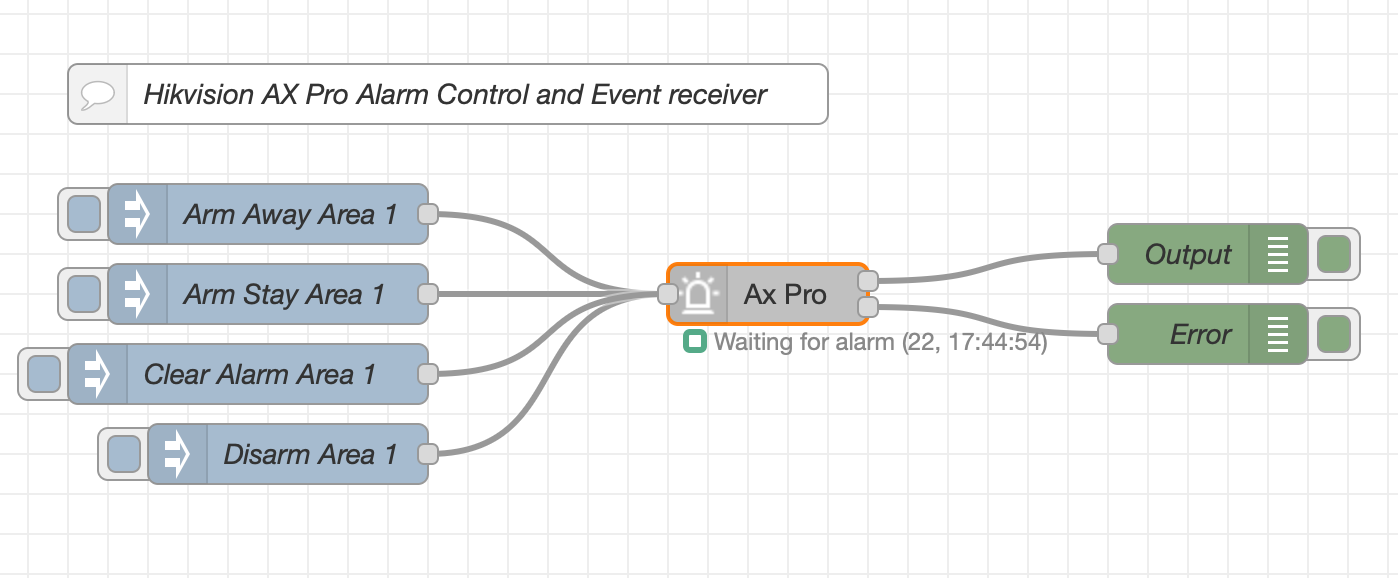
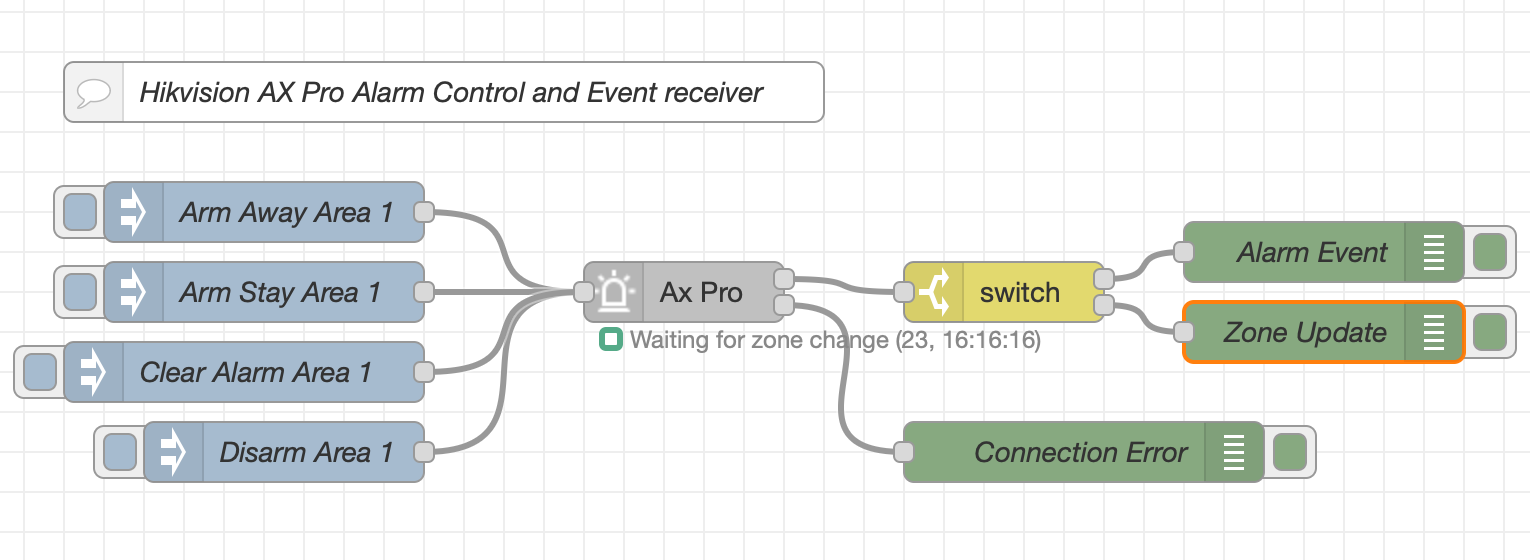
.

diff --git a/nodes/AXPro-config.js b/nodes/AXPro-config.js
@@ -20,6 +20,7 @@ module.exports = (RED) => {
         node.nodeClients = []; // Stores the registered clients
         node.isConnected = true; // Assumes, that is already connected.
         node.timerCheckHeartBeat = null;
+        node.timerReadZonesStatus = null;
         node.errorDescription = ""; // Contains the error description in case of connection error.
         node.authentication = config.authentication || "sha256-salted";
         node.deviceinfo = config.deviceinfo || {};
@@ -40,7 +41,6 @@ module.exports = (RED) => {
         const customHttpsAgent = new https.Agent({
             rejectUnauthorized: false
         });
-
 
 
         // This function starts the heartbeat timer, to detect the disconnection from the server
@@ -95,31 +95,29 @@ module.exports = (RED) => {
             return result
         }
 
+        controller = new AbortController(); // For aborting the stream request
+        node.optionsAlarmStream = {
+            // These properties are part of the Fetch Standard
+            method: 'GET',
+            headers: {},        // request headers. format is the identical to that accepted by the Headers constructor (see below)
+            body: null,         // request body. can be null, a string, a Buffer, a Blob, or a Node.js Readable stream
+            redirect: 'follow', // set to `manual` to extract redirect headers, `error` to reject redirect
+            signal: controller.signal,       // pass an instance of AbortSignal to optionally abort requests
+
+            // The following properties are node-fetch extensions
+            follow: 20,         // maximum redirect count. 0 to not follow redirect
+            timeout: 0,         // req/res timeout in ms, it resets on redirect. 0 to disable (OS limit applies). Signal is recommended instead.
+            compress: false,     // support gzip/deflate content encoding. false to disable
+            size: 0,            // maximum response body size in bytes. 0 to disable
+            agent: node.protocol === "https" ? customHttpsAgent : null
+        };
 
         //#region ALARMSTREAM
         async function startAlarmStream() {
 
             node.resetHeartBeatTimer(); // First thing, start the heartbeat timer.
             node.setAllClientsStatus({ fill: "grey", shape: "ring", text: "Connecting..." });
-
             if (node.authentication === "sha256-salted") node.clientAlarmStream = new DigestFetch("", "", { basic: true }); // Instantiate the fetch client.
-            controller = new AbortController(); // For aborting the stream request
-            node.optionsAlarmStream = {
-                // These properties are part of the Fetch Standard
-                method: 'GET',
-                headers: {},        // request headers. format is the identical to that accepted by the Headers constructor (see below)
-                body: null,         // request body. can be null, a string, a Buffer, a Blob, or a Node.js Readable stream
-                redirect: 'follow', // set to `manual` to extract redirect headers, `error` to reject redirect
-                signal: controller.signal,       // pass an instance of AbortSignal to optionally abort requests
-
-                // The following properties are node-fetch extensions
-                follow: 20,         // maximum redirect count. 0 to not follow redirect
-                timeout: 0,         // req/res timeout in ms, it resets on redirect. 0 to disable (OS limit applies). Signal is recommended instead.
-                compress: false,     // support gzip/deflate content encoding. false to disable
-                size: 0,            // maximum response body size in bytes. 0 to disable
-                agent: node.protocol === "https" ? customHttpsAgent : null
-
-            };
 
             // 22/12/2022 Start auth process
             // ##################################
@@ -153,12 +151,11 @@ module.exports = (RED) => {
                                 resolve(json);
                         });
                     });
-                } catch (error) {
-
-                }
+                } catch (error) { }
             }
 
             try {
+                node.optionsAlarmStream.method = 'GET'
                 const responseAuth = await node.clientAlarmStream.fetch(node.protocol + "://" + node.host + "/ISAPI/Security/sessionLogin/capabilities?username=" + node.credentials.user, node.optionsAlarmStream)
                 if (responseAuth.status >= 200 && responseAuth.status <= 300) {
                     node.setAllClientsStatus({ fill: "green", shape: "ring", text: "Communication established" });
@@ -173,12 +170,8 @@ module.exports = (RED) => {
                 const result = await xml2jsSync(XMLBody)
                 const jSon = JSON.parse(JSON.stringify(result))
                 if (node.debug) RED.log.error("BANANA SBANANATO XMLBoduAuth -> JSON " + JSON.stringify(result));
-                if (result !== null && result !== undefined && result.hasOwnProperty("EventNotificationAlert")) {
-                    node.nodeClients.forEach(oClient => {
-                        if (result !== undefined) oClient.sendPayload({ topic: oClient.topic || "", payload: result.EventNotificationAlert });
-                    });
-                }
-                // jSon now contains the body in JSON Format. The simple thing is done. 
+
+                // jSon now contains the body in JSON Format. The simple thing is done.
                 // Now i need to authenticate
                 let bodyAuth = {
                     sessionId: jSon.SessionLoginCap.sessionID,
@@ -391,11 +384,59 @@ module.exports = (RED) => {
                 node.errorDescription = "Fetch error " + (error.message || " unknown error");
                 if (node.debug) RED.log.error("AXPro-config: FETCH ERROR: " + (error.message || " unknown error"));
             };
-
+            // Starts zone polling
+            clearTimeout(node.timerReadZonesStatus)
+            node.timerReadZonesStatus = setTimeout(startZonesStatusReading, 2000)
         };
-        setTimeout(startAlarmStream, 10000); // First connection.
+        // Start login and alamrstream
+        setTimeout(startAlarmStream, 5000)
+        
         //#endregion
 
+        // Read zones status and outputs only changed ones
+        // Wrapping the async xml2js to a sync function, for peace of mind
+        async function startZonesStatusReading() {
+            try {
+
+                let optionsZonesStatusReading = {
+                    // These properties are part of the Fetch Standard
+                    method: 'GET',
+                    headers: { Cookie: node.authCookie },        // request headers. format is the identical to that accepted by the Headers constructor (see below)
+                    body: null,         // request body. can be null, a string, a Buffer, a Blob, or a Node.js Readable stream
+                    redirect: 'follow', // set to `manual` to extract redirect headers, `error` to reject redirect
+                    //signal: controller.signal,       // pass an instance of AbortSignal to optionally abort requests
+
+                    // The following properties are node-fetch extensions
+                    follow: 20,         // maximum redirect count. 0 to not follow redirect
+                    timeout: 0,         // req/res timeout in ms, it resets on redirect. 0 to disable (OS limit applies). Signal is recommended instead.
+                    compress: false,     // support gzip/deflate content encoding. false to disable
+                    size: 0,            // maximum response body size in bytes. 0 to disable
+                    agent: node.protocol === "https" ? customHttpsAgent : null
+                };
+                try {
+                    delete (optionsZonesStatusReading.body)
+                    const responseZonesStatus = await node.clientAlarmStream.fetch(node.protocol + "://" + node.host + "/ISAPI/SecurityCP/status/zones?format=json", optionsZonesStatusReading)
+                    if (responseZonesStatus.status >= 200 && responseZonesStatus.status <= 300) {
+                        // Output only the changed zone
+                        // Get the XML Body of the salt and challenge
+                        const result = await responseZonesStatus.text()
+                        const jSon = JSON.parse(result)
+                        if (node.debug) RED.log.error("BANANA SBANANATO XMLBoduAuth -> JSON " + JSON.stringify(result));
+                        node.nodeClients.forEach(oClient => {
+                            oClient.sendPayload({ topic: oClient.topic || "", payload: { ZoneList: jSon.ZoneList } });
+                        })
+                    } else {
+                        node.setAllClientsStatus({ fill: "red", shape: "ring", text: responseZonesStatus.statusText || " unknown response code" });
+                        //  if (node.debug)  RED.log.error("BANANA Error response " + response.statusText);
+                        node.errorDescription = "StatusResponse problem " + (responseZonesStatus.statusText || " unknown status response code");
+                    }
+
+                } catch (error) {
+                    node.setAllClientsStatus({ fill: "red", shape: "ring", text: "Unable to fetch zone state " + error.message });
+                }
+                node.timerReadZonesStatus = setTimeout(startZonesStatusReading, 2000)
+            } catch (error) { }
+        }
 
 
         //#region "FUNCTIONS"
@@ -425,12 +466,6 @@ module.exports = (RED) => {
             try {
                 node.nodeClients = node.nodeClients.filter(x => x.id !== _Node.id)
             } catch (error) { }
-            //if (node.debug) RED.log.info("AFTER Node " + _Node.id + " has been unsubscribed from receiving KNX messages. " + node.nodeClients.length);
-
-            // If no clien nodes, disconnect from bus.
-            if (node.nodeClients.length === 0) {
-
-            }
         };
         //#endregion
 
@@ -488,7 +523,12 @@ module.exports = (RED) => {
             }
         }
 
+
+
     }
+
+
+
 
 
     RED.nodes.registerType("AXPro-config", Hikvisionconfig, {
@@ -497,4 +537,10 @@ module.exports = (RED) => {
             password: { type: "password" }
         }
     });
+
+
 }
+
+
+
+

diff --git a/nodes/hikvisionUltimateAxPro.js b/nodes/hikvisionUltimateAxPro.js
@@ -1,4 +1,4 @@
-
+const _ = require('lodash')
 
 module.exports = function (RED) {
 	function hikvisionUltimateAxPro(config) {
@@ -6,6 +6,7 @@ module.exports = function (RED) {
 		var node = this;
 		node.topic = config.topic || config.name;
 		node.server = RED.nodes.getNode(config.server)
+		node.zonesStatus = [] // Contains the status of all zones
 
 		node.setNodeStatus = ({ fill, shape, text }) => {
 			var dDate = new Date();
@@ -17,18 +18,32 @@ module.exports = function (RED) {
 			if (_msg === null || _msg === undefined) return;
 			_msg.topic = node.topic;
 			if (_msg.hasOwnProperty("errorDescription")) { node.send([null, _msg]); return; }; // It's a connection error/restore comunication.
-			if (!_msg.hasOwnProperty("payload") || (_msg.hasOwnProperty("payload") && _msg.payload === undefined)) return;
 			if (_msg.payload.hasOwnProperty('CIDEvent')) {
-				// Move the CID Event out of the payload
-				_msg.CIDEvent = _msg.payload.CIDEvent
-				// Delete the Payload
-				delete (_msg.payload)
+				// ALARM EVENT
+				node.send([{ payload: { CIDEvent: RED.util.cloneMessage(_msg.payload.CIDEvent) } }, null]); // Clone message to avoid adding _msgid
+			} else if (_msg.payload.hasOwnProperty('ZoneList')) {
+				// CHECK ONLY THE CHANGED ZONE STATUS
+				for (let index = 0; index < _msg.payload.ZoneList.length; index++) {
+					try {
+						const receivedZone = _msg.payload.ZoneList[index].Zone;
+						let foundInZoneStatus = node.zonesStatus.find((element) => element.id === receivedZone.id)
+						if (!_.isEqual(foundInZoneStatus, receivedZone)) {
+							if (foundInZoneStatus === undefined) {
+								node.zonesStatus.push(receivedZone) // Add updated
+							} else {
+								node.zonesStatus[node.zonesStatus.findIndex((element) => element.id === receivedZone.id)] = receivedZone
+								//node.zonesStatus.splice(foundInZoneStatus)
+								//node.zonesStatus.push(receivedZone) // Add updated
+							}
+							node.setNodeStatus({ fill: "green", shape: "dot", text: "Zone changed " + receivedZone.name });
+							node.send([{ payload: { zoneUpdate: RED.util.cloneMessage(receivedZone) } }, null]); // Clone message to avoid adding _msgid
+						}
+					} catch (error) { }
+				}
 			} else {
-				node.setNodeStatus({ fill: "green", shape: "ring", text: "Waiting for alarm" });
-				return // Discard Heartbeat
+				node.setNodeStatus({ fill: "green", shape: "ring", text: "Waiting for zone change" });
 			}
-			node.setNodeStatus({ fill: "green", shape: "dot", text: "Alert received" });
-			node.send([_msg, null]);
+
 		}
 
 		// On each deploy, unsubscribe+resubscribe
@@ -55,7 +70,7 @@ module.exports = function (RED) {
 			if (msg.hasOwnProperty("clearAlarmArea")) {
 				node.server.clearAlarmArea(msg.clearAlarmArea)
 			}
-			
+
 
 		});
 

diff --git a/README.md b/README.md
@@ -652,9 +652,13 @@ msg = {
 ---
 
 ## AX PRO Alarm node (Ax Pro and AX Pro Hybrid)
-This node receives all events sent by your AX Pro alarm.<br/>
-You can also arm, disarm, silence alarm etc...<br/>
 
+<img src='https://raw.githubusercontent.com/Supergiovane/node-red-contrib-hikvision-ultimate/master/img/axproPicture.jpg' width="80%">
+
+
+This node receives all events sent by your AX Pro alarm.<br/>
+You will receive not only Alarms etc, but also zone status, even if the AX Pro is disarmed.<br/>
+You can also arm, disarm, silence alarm etc...<br/>
 
 <img src='https://raw.githubusercontent.com/Supergiovane/node-red-contrib-hikvision-ultimate/master/img/axpro.png' width="80%">
 
@@ -666,7 +670,7 @@ You can also arm, disarm, silence alarm etc...<br/>
 
 ```javascript
 
-[{"id":"7c370c1cabe6fd89","type":"hikvisionUltimateAxPro","z":"e9a7cd97842ffa10","name":"Ax Pro","topic":"","server":"2dfc48091d46ead3","x":390,"y":200,"wires":[["893818dce1fc2c20"],["01e634bd9098e528"]]},{"id":"893818dce1fc2c20","type":"debug","z":"e9a7cd97842ffa10","name":"Output","active":true,"tosidebar":true,"console":false,"tostatus":false,"complete":"true","targetType":"full","statusVal":"","statusType":"auto","x":610,"y":180,"wires":[]},{"id":"01e634bd9098e528","type":"debug","z":"e9a7cd97842ffa10","name":"Error","active":true,"tosidebar":true,"console":false,"tostatus":false,"complete":"true","targetType":"full","statusVal":"","statusType":"auto","x":610,"y":220,"wires":[]},{"id":"ddc2d752e0c13937","type":"inject","z":"e9a7cd97842ffa10","name":"Disarm Area 1","props":[{"p":"disarmArea","v":"1","vt":"num"}],"repeat":"","crontab":"","once":false,"onceDelay":0.1,"topic":"","x":150,"y":280,"wires":[["7c370c1cabe6fd89"]]},{"id":"b33ec376180a53bc","type":"inject","z":"e9a7cd97842ffa10","name":"Arm Away Area 1","props":[{"p":"armAwayArea","v":"1","vt":"num"}],"repeat":"","crontab":"","once":false,"onceDelay":0.1,"topic":"","x":140,"y":160,"wires":[["7c370c1cabe6fd89"]]},{"id":"6145bfa8991c1831","type":"inject","z":"e9a7cd97842ffa10","name":"Arm Stay Area 1","props":[{"p":"armStayArea","v":"1","vt":"num"}],"repeat":"","crontab":"","once":false,"onceDelay":0.1,"topic":"","x":140,"y":200,"wires":[["7c370c1cabe6fd89"]]},{"id":"189b2eb17cb67a52","type":"inject","z":"e9a7cd97842ffa10","name":"Clear Alarm Area 1","props":[{"p":"clearAlarmArea","v":"1","vt":"num"}],"repeat":"","crontab":"","once":false,"onceDelay":0.1,"topic":"","x":130,"y":240,"wires":[["7c370c1cabe6fd89"]]},{"id":"40ce4b0d34bedf21","type":"comment","z":"e9a7cd97842ffa10","name":"Hikvision AX Pro Alarm Control and Event receiver","info":"","x":230,"y":100,"wires":[]},{"id":"2dfc48091d46ead3","type":"AXPro-config","host":"192.168.1.10","port":"80","name":"AX Pro","authentication":"sha256-salted","protocol":"http","heartbeattimerdisconnectionlimit":"2","deviceinfo":"[object Object]"}]
+[{"id":"7c370c1cabe6fd89","type":"hikvisionUltimateAxPro","z":"e9a7cd97842ffa10","name":"Ax Pro","topic":"","server":"2dfc48091d46ead3","x":350,"y":200,"wires":[["bc0f8fdc472511e7"],["01e634bd9098e528"]]},{"id":"893818dce1fc2c20","type":"debug","z":"e9a7cd97842ffa10","name":"Alarm Event","active":true,"tosidebar":true,"console":false,"tostatus":false,"complete":"payload.CIDEvent","targetType":"msg","statusVal":"","statusType":"auto","x":670,"y":180,"wires":[]},{"id":"01e634bd9098e528","type":"debug","z":"e9a7cd97842ffa10","name":"Connection Error","active":true,"tosidebar":true,"console":false,"tostatus":false,"complete":"true","targetType":"full","statusVal":"","statusType":"auto","x":550,"y":280,"wires":[]},{"id":"ddc2d752e0c13937","type":"inject","z":"e9a7cd97842ffa10","name":"Disarm Area 1","props":[{"p":"disarmArea","v":"1","vt":"num"}],"repeat":"","crontab":"","once":false,"onceDelay":0.1,"topic":"","x":150,"y":280,"wires":[["7c370c1cabe6fd89"]]},{"id":"b33ec376180a53bc","type":"inject","z":"e9a7cd97842ffa10","name":"Arm Away Area 1","props":[{"p":"armAwayArea","v":"1","vt":"num"}],"repeat":"","crontab":"","once":false,"onceDelay":0.1,"topic":"","x":140,"y":160,"wires":[["7c370c1cabe6fd89"]]},{"id":"6145bfa8991c1831","type":"inject","z":"e9a7cd97842ffa10","name":"Arm Stay Area 1","props":[{"p":"armStayArea","v":"1","vt":"num"}],"repeat":"","crontab":"","once":false,"onceDelay":0.1,"topic":"","x":140,"y":200,"wires":[["7c370c1cabe6fd89"]]},{"id":"189b2eb17cb67a52","type":"inject","z":"e9a7cd97842ffa10","name":"Clear Alarm Area 1","props":[{"p":"clearAlarmArea","v":"1","vt":"num"}],"repeat":"","crontab":"","once":false,"onceDelay":0.1,"topic":"","x":130,"y":240,"wires":[["7c370c1cabe6fd89"]]},{"id":"40ce4b0d34bedf21","type":"comment","z":"e9a7cd97842ffa10","name":"Hikvision AX Pro Alarm Control and Event receiver","info":"","x":230,"y":100,"wires":[]},{"id":"bc0f8fdc472511e7","type":"switch","z":"e9a7cd97842ffa10","name":"","property":"payload","propertyType":"msg","rules":[{"t":"hask","v":"CIDEvent","vt":"str"},{"t":"hask","v":"zoneUpdate","vt":"str"}],"checkall":"true","repair":false,"outputs":2,"x":510,"y":200,"wires":[["893818dce1fc2c20"],["5c9f382684e6354f"]]},{"id":"5c9f382684e6354f","type":"debug","z":"e9a7cd97842ffa10","name":"Zone Update","active":true,"tosidebar":true,"console":false,"tostatus":false,"complete":"payload.zoneUpdate","targetType":"msg","statusVal":"","statusType":"auto","x":670,"y":220,"wires":[]},{"id":"2dfc48091d46ead3","type":"AXPro-config","host":"192.168.1.10","port":"80","name":"AX Pro","authentication":"sha256-salted","protocol":"http","heartbeattimerdisconnectionlimit":"2","deviceinfo":"[object Object]"}]
 
 ```
 </details>
@@ -706,9 +710,10 @@ return msg;
 
 **Output**
 On PIN1, the node will output the Event, on PIN2 it will output connection error messages<br/>
-Example of an Event
+Example:<br/>
 
 ```json
+// FOR CID EVENTS 
 {
    "code":1401, // This is the reference code of the event. Please see the ISAPI docs or try by yourself, by watching the output while playing with your alarm
    "name":"Supergiovane",
@@ -717,6 +722,36 @@ Example of an Event
    "upload":"2022-12-22T17:33:56+01:00",
    "system":1,
    "subSystemName":"Casa"
+}
+```
+
+```json
+// FOR ZONE UPDATE EVENT
+{
+   "id":1,
+   "name":"Zona cablata 2",
+   "status":"trigger",
+   "sensorStatus":"normal",
+   "magnetOpenStatus":true,
+   "tamperEvident":false,
+   "shielded":false,
+   "bypassed":false,
+   "armed":false,
+   "isArming":false,
+   "alarm":false,
+   "reason":"break",
+   "subSystemNo":1,
+   "linkageSubSystem":[
+      1
+   ],
+   "detectorType":"magneticContact",
+   "stayAway":false,
+   "zoneType":"Instant",
+   "accessModuleType":"localTransmitter",
+   "moduleChannel":2,
+   "zoneAttrib":"wired",
+   "deviceNo":3,
+   "abnormalOrNot":false
 }
 ```
 

diff --git a/CHANGELOG.md b/CHANGELOG.md
@@ -4,7 +4,12 @@
 [![Donate via PayPal](https://img.shields.io/badge/Donate-PayPal-blue.svg?style=flat-square)](https://www.paypal.me/techtoday) 
 
 <p>
-<b>Version 1.0.66</b> September 2022<br/>
+<b>Version 1.0.67</b> Devember 2022<br/>
+- NEW: AX Pro node now outputs alarm events and also zone status (even if the alarm is disarmed).<br/>
+- Updated Ajax Pro Wiki.<br/>
+</p>
+<p>
+<b>Version 1.0.66</b> December 2022<br/>
 - NEW: new AX Pro and AX Pro Hybrid node. These panels require a totally different authentication and handling, so i made another node just for that. You can receive events and also control your security system<br/>
 - EDIT: changed the node name from "Alarm" and "RAW Alarm" to "Event" and "RAW Event" to avoid confusion with the new AX Pro node.<br/>
 - Fixed stability issue with the new AX Pro node.<br/>
